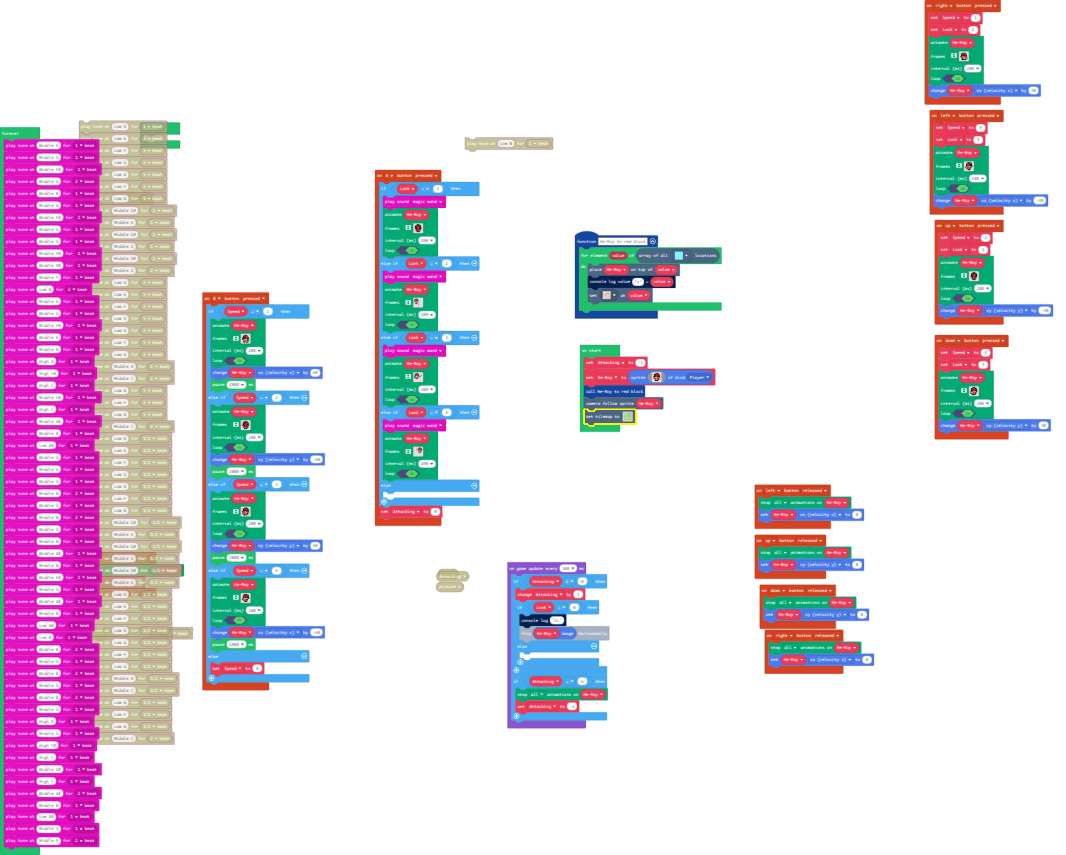
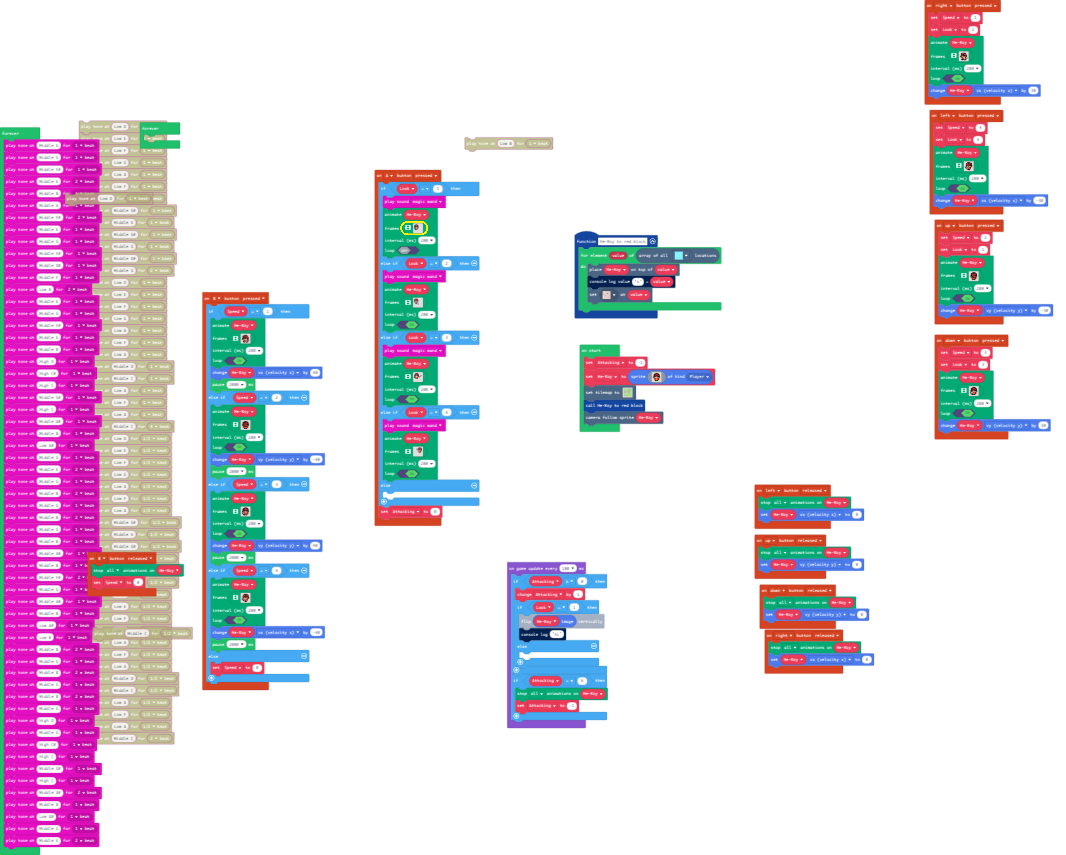
Update main.blocks, main.ts

diff --git a/main.ts b/main.ts
@@ -1,3 +1,9 @@
+enum ActionKind {
+    Walking,
+    Idle,
+    Jumping,
+    attack
+}
 namespace SpriteKind {
     export const House = SpriteKind.create()
 }
@@ -433,22 +439,30 @@ controller.A.onEvent(ControllerButtonEvent.Pressed, function () {
         animation.runImageAnimation(
         HeRoy,
         [img`
-            . . . . . . f f f f . . . . . . 
-            . . . . f f e e e e f f . . . . 
-            . . . f e e e f f e e e f . . . 
-            . . f f f f f 2 2 f f f f f . . 
-            . . f f e 2 e 2 2 e 2 e f f . . 
-            . . f e 2 f 2 f f 2 f 2 e f . . 
-            . . f f f 2 2 e e 2 2 f f f . . 
-            . f f e f 2 f e e f 2 f e f f . 
-            . f e e f f e e e e f e e e f . 
-            . . f e e e e e e e e e e f . . 
-            . . . f e e e e e e e e f . . . 
-            . . e 4 f f f f f f f f 4 e . . 
-            . . 4 d f 2 2 2 2 2 2 f d 4 . . 
-            . . 4 4 f 4 4 4 4 4 4 f 4 4 . . 
-            . . . . . f f f f f f . . . . . 
-            . . . . . f f . . f f . . . . . 
+            ........................
+            .....ffff...............
+            ...fff22fff.............
+            ..fff2222fff............
+            .fffeeeeeefff...........
+            .ffe222222eef...........
+            .fe2ffffff2ef...........
+            .ffffeeeeffff...........
+            ffefbf44fbfeff..........
+            fee41fddf14eef..........
+            .ffffdddddeef...........
+            fddddf444eef............
+            fbbbbf2222f4e...........
+            fbbbbf2222fd4...........
+            .fccf45544f44...........
+            ..ffffffff..............
+            ....ff..ff..............
+            ........................
+            ........................
+            ........................
+            ........................
+            ........................
+            ........................
+            ........................
             `,img`
             ........................
             .....ffff...............
@@ -526,7 +540,7 @@ controller.A.onEvent(ControllerButtonEvent.Pressed, function () {
             ........................
             `],
         200,
-        true
+        false
         )
     } else if (Look == 2) {
         music.magicWand.play()
@@ -1153,8 +1167,6 @@ HeRoy = sprites.create(img`
     . . . . . f f f f f f . . . . . 
     . . . . . f f . . f f . . . . . 
     `, SpriteKind.Player)
-HeRoy_to_red_block()
-scene.cameraFollowSprite(HeRoy)
 tiles.setTilemap(tiles.createTilemap(hex`3200320003030303030303030303030303030303030303030303030303030303050302030503030305030303050303030503030305030303030303030303030303030303030303030303030303030303050305030503050305030503050205030503050305030503050505050505050505050505050505050505050503030303030305030503050305030503050305020503050305030503050301010101010101010101010101010101010101050303030303030503050205030503050305020502050305030503050305030101010101010101010101010101010101010105030303030303050305020503050305030502050205030503050305030503050505050505050505050505050505010101010503030303030305030502050305030503050205020503050305030503050303030303030303030303030303030501010101050303030303030503050205030503050305020502050305030503050305030303030303030303030303030303050101010105030303030303050305020503050305030503050205030503050305030503030303030303030303030303030305010101010503030303030305030502050302030503030305020303050303030503030303030303030303030303030303030501010101050303030303030503030305050505050505050505050505050505050505050303030303030303030303030303050101010105030303030303050505050503030303030303030303030303030303030303030303030303030303030303030305010101010502030303030303030303030303030303030303030303030303030303030303030303030303030303030303030501010101050203030303030303030303030303030303030303030303030303030303030303030303030303030303030303050101010105020303030303030303030303030303030303030303030303030303030303030303030303030303030303030305010101010502030303030303030303030303030303030303030303030303030303030303030303030303030303030303030501010101050203030303030303030303030303030303030303030303030303030303030303030303030303030305050505050101010105050505050505050505050505050505050503030303030303030303030303030303030303030303030501010101010101010101010101010101010101010101010101050503030303030303030303030303030303030303030303050101080709010101010101010101010101010807070901010101050303030303030303030303030303030303030303030305010807070709010101010101010101010108070707070901010105030303030303030303030303030303030303030303030508070707070709010101010101010101080707070707070901010503030303030303030303030303030303030303030303050707070707070701010101010101010107070707070707070101050203030303030303030303030303030303030303030305070707070707070101010101010101010707070707070707010105020303030303030303030303030303030303030303030507070707070707010101010101040101070707070707070701010502030303030303030303030303030303030303030303050707070607070701010101010101010107070607070707070101050202030303030303030303030303030303030303030305010101010101010101010101010101010101010101010101010105030303030303030303030303030303030303030303030501010101010101010101010101010101010101010101010101010503030303030303030303030303030303030303030303050101010101010101010101010101010101010101010101010101050303030303030303030303030303030303030303030305010101010101010101010101010101010101010101010101010105030303030303030303030303030303030303030303030501010101010101010101010101050505050505050505050505050503030303030303030303030303030303030303030303050101010101010101010101010105030303030303030303030303030303030303030303030303030303030303030303030305010101010101010101010101010503030303030303030303030303030303030303030303030303030303030303030303030501010101010101010101010101050303030303030303030303030303030303030303030303030303030303030303030303050101010101010101010101010105030303030303030303030303030303030303030303030303030303030303030303030305010101010101010101010101010503030303030303030303030303030303030303030303030303030303030303030303030501010101010101010101010101050303030303030303030303030303030303030303030303030303030303030303030303050101010101010101010101010105030303030303030303030303030303030303030303030303030303030303030303030305010101010105050505050505050503030303030303030303030303030303030303030303030303030303030303030303030501010101010503030303030303030303030303030303030303030303030303030303030303030303030202030303030303050101010101050203030303030303030303030303030303030303030303030303030303030303030303030303030303030305010101010105020303030303030303030303030303030303030303030303030303030303030303030303030202020202030501010101010502030303030303030303030303030303030303030303030303030303030303030302020202020303030303050101010101050203030303030303030303030303030303030303030303030303030303030303030202020202030302020205010101010105030303030303030303030303030303030303030303030303030303030303030303020202020203020303030501010101010503030303030303030303030303030303030303030303030303030303030303030302020202020302030303050101010101050303030303030303030303030303030303030303030303030303030303030303030202020202030203030305010101010105030303030303030303030303030303030303030303030303030303030303030303020202020203020303030501010101010503030303030303030303030303030303030303030303030303030303030303030302020202020302030303050101010101050303030303030303030303030303030303030303030303030303030303030303030202020202030303030305010101010105030303030303030303030303030303030303030303030303030303030303030303`, img`
     ............................2...2...2...2...2...2.
     ..........................2.2.2.2.2.2.2.2.2.2.2.2.
@@ -1207,6 +1219,8 @@ tiles.setTilemap(tiles.createTilemap(hex`320032000303030303030303030303030303030
     ..........2.....22................................
     ..........2.....2.................................
     `, [myTiles.transparency16,sprites.castle.tilePath5,sprites.castle.tileGrass1,sprites.castle.tileGrass3,myTiles.tile2,sprites.builtin.forestTiles0,myTiles.tile3,myTiles.tile5,myTiles.tile6,myTiles.tile7], TileScale.Sixteen))
+HeRoy_to_red_block()
+scene.cameraFollowSprite(HeRoy)
 forever(function () {
     music.playTone(330, music.beat(BeatFraction.Whole))
     music.playTone(392, music.beat(BeatFraction.Whole))
@@ -1274,9 +1288,9 @@ forever(function () {
 game.onUpdateInterval(100, function () {
     if (Attacking >= 0) {
         Attacking += 1
-        if (Look == 0) {
+        if (Look == 1) {
+            HeRoy.image.flipY()
             console.log("hi")
-            HeRoy.image.flipX()
         } else {
         	
         }
